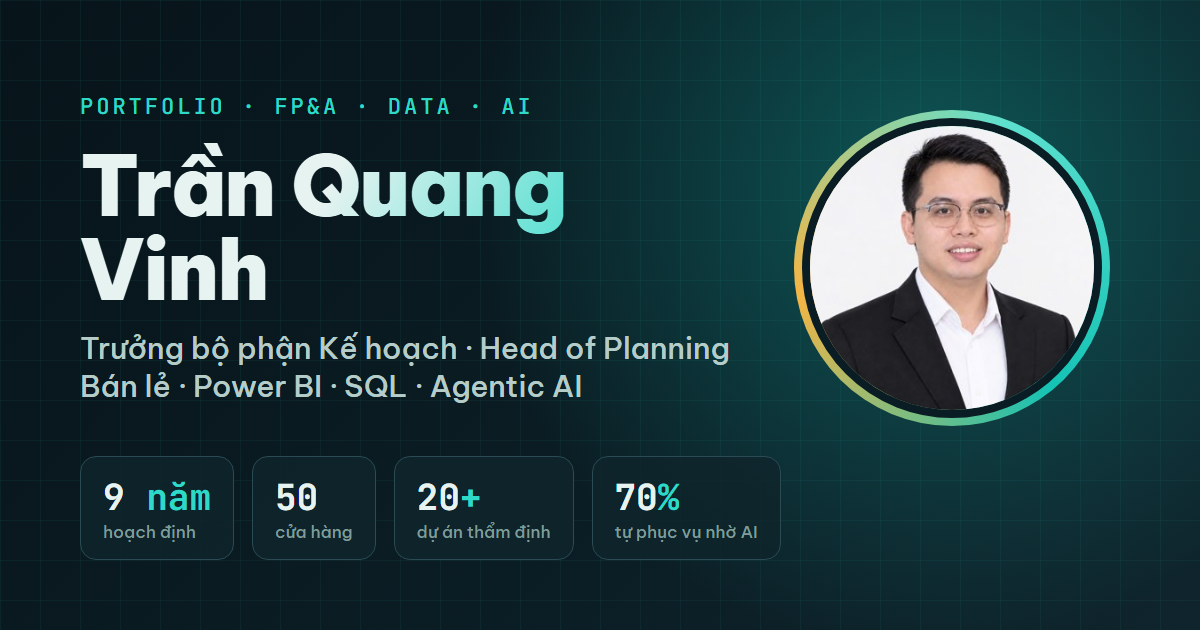
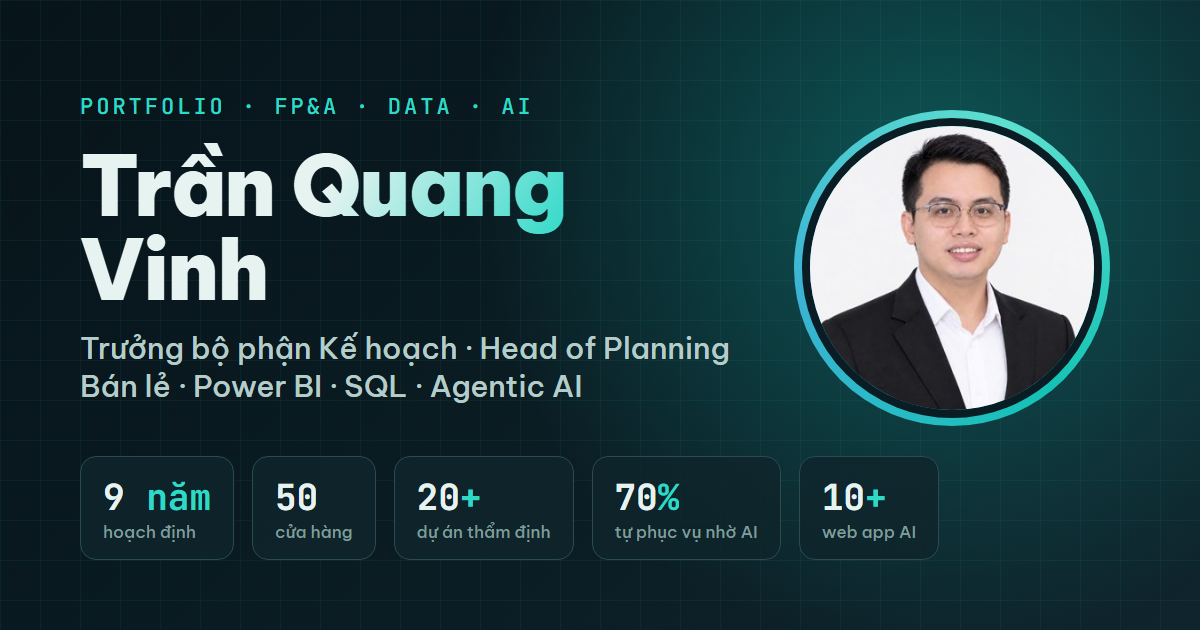
Portfolio đồng bộ CV và ảnh bìa: bỏ màu cam, thêm thẻ 10+ AI web apps, ảnh chia sẻ mới

diff --git a/web/css/style.css b/web/css/style.css
@@ -10,7 +10,7 @@
   --ease: cubic-bezier(.2, .7, .2, 1);
 
   --teal: #14C3B5; --teal-2: #0FA3A0; --teal-3: #5EE0CF;
-  --amber: #F5B544; --rose: #F2716B; --violet: #9B8CFF; --sky: #4DB3FF;
+  --amber: #F5B544; --blue: #3BB3D4; --rose: #F2716B; --violet: #9B8CFF; --sky: #4DB3FF;
 }
 :root[data-theme="dark"] {
   --bg: #07141A; --bg-2: #0B1D24; --surface: #0F242C; --surface-2: #143039;
@@ -22,7 +22,7 @@
 :root[data-theme="light"] {
   --bg: #F6FAF9; --bg-2: #ECF5F3; --surface: #FFFFFF; --surface-2: #F1F7F6;
   --fg: #0D2724; --fg-2: #2E4E4A; --muted: #5C7874; --line: #D7E8E5; --line-2: #C3DCD8;
-  --accent: #0B8C89; --accent-ink: #FFFFFF; --glow: rgba(15, 163, 160, .16);
+  --accent: #0B8C89; --accent-ink: #FFFFFF; --blue: #1C86A0; --glow: rgba(15, 163, 160, .16);
   --shadow: 0 20px 50px rgba(13, 60, 56, .12); --shadow-sm: 0 6px 18px rgba(13, 60, 56, .08);
   color-scheme: light;
 }
@@ -46,7 +46,7 @@ svg { width: 1em; height: 1em; fill: none; stroke: currentColor; stroke-width: 2
 
 /* Progress */
 .progress { position: fixed; inset: 0 0 auto 0; height: 3px; z-index: 60; pointer-events: none; }
-.progress span { display: block; height: 100%; width: 100%; transform-origin: 0 50%; transform: scaleX(0); background: linear-gradient(90deg, var(--teal), var(--amber)); }
+.progress span { display: block; height: 100%; width: 100%; transform-origin: 0 50%; transform: scaleX(0); background: linear-gradient(90deg, var(--teal), var(--blue)); }
 
 /* Buttons */
 .btn {
@@ -99,7 +99,7 @@ kbd { font-family: var(--mono); font-size: 11px; padding: 2px 6px; border-radius
 .dot-live { width: 9px; height: 9px; border-radius: 50%; background: #3BE08A; box-shadow: 0 0 0 0 rgba(59, 224, 138, .6); animation: pulse 2s infinite; }
 @keyframes pulse { 70% { box-shadow: 0 0 0 10px rgba(59, 224, 138, 0); } 100% { box-shadow: 0 0 0 0 rgba(59, 224, 138, 0); } }
 .hero-name { font-size: clamp(42px, 7.4vw, 92px); line-height: 1.02; font-weight: 900; letter-spacing: -1.5px; margin: 0;
-  background: linear-gradient(120deg, var(--fg) 30%, var(--accent) 75%, var(--amber)); -webkit-background-clip: text; background-clip: text; color: transparent; text-wrap: balance; }
+  background: linear-gradient(120deg, var(--fg) 30%, var(--accent) 75%, var(--blue)); -webkit-background-clip: text; background-clip: text; color: transparent; text-wrap: balance; }
 .hero-title { font-size: clamp(18px, 2.2vw, 24px); font-weight: 600; margin: 18px 0 0; color: var(--fg); display: flex; flex-wrap: wrap; gap: 6px 10px; align-items: baseline; }
 .hero-title .sep { color: var(--muted); }
 .rotator { color: var(--accent); font-family: var(--mono); font-weight: 500; font-size: .9em; border-right: 2px solid var(--accent); padding-right: 4px; animation: caret 1s steps(1) infinite; min-height: 1.4em; }
@@ -110,7 +110,7 @@ kbd { font-family: var(--mono); font-size: 11px; padding: 2px 6px; border-radius
 .hero-meta li, .hero-meta a { display: inline-flex; align-items: center; gap: 7px; text-decoration: none; }
 .hero-meta a:hover { color: var(--accent); }
 .hero-card { position: relative; justify-self: center; width: min(380px, 100%); aspect-ratio: 1; }
-.avatar-ring { position: absolute; inset: 8%; border-radius: 50%; padding: 6px; background: conic-gradient(from 140deg, var(--teal), var(--amber), var(--teal-3), var(--teal)); animation: spin 14s linear infinite; box-shadow: 0 30px 80px var(--glow); }
+.avatar-ring { position: absolute; inset: 8%; border-radius: 50%; padding: 6px; background: conic-gradient(from 140deg, var(--teal), var(--blue), var(--teal-3), var(--teal)); animation: spin 14s linear infinite; box-shadow: 0 30px 80px var(--glow); }
 .avatar-ring img { width: 100%; height: 100%; object-fit: cover; border-radius: 50%; border: 6px solid var(--bg); animation: spin 14s linear infinite reverse; }
 @keyframes spin { to { transform: rotate(360deg); } }
 .badge-float { position: absolute; padding: 10px 14px; border-radius: 14px; background: color-mix(in srgb, var(--surface) 88%, transparent); border: 1px solid var(--line-2);
@@ -125,9 +125,9 @@ kbd { font-family: var(--mono); font-size: 11px; padding: 2px 6px; border-radius
 
 /* KPI */
 .kpis { position: relative; margin-top: -40px; z-index: 2; }
-.kpi-grid { display: grid; grid-template-columns: repeat(4, minmax(0, 1fr)); gap: 16px; }
+.kpi-grid { display: grid; grid-template-columns: repeat(5, minmax(0, 1fr)); gap: 14px; }
 .kpi { position: relative; display: block; text-decoration: none; padding: 22px 22px 20px; border-radius: var(--r); background: var(--surface); border: 1px solid var(--line); box-shadow: var(--shadow-sm); overflow: hidden; transition: transform .25s var(--ease), border-color .25s; }
-.kpi::before { content: ""; position: absolute; inset: 0 0 auto 0; height: 3px; background: linear-gradient(90deg, var(--teal), var(--amber)); transform: scaleX(.25); transform-origin: 0 50%; transition: transform .4s var(--ease); }
+.kpi::before { content: ""; position: absolute; inset: 0 0 auto 0; height: 3px; background: linear-gradient(90deg, var(--teal), var(--blue)); transform: scaleX(.25); transform-origin: 0 50%; transition: transform .4s var(--ease); }
 .kpi:hover { transform: translateY(-4px); border-color: var(--line-2); }
 .kpi:hover::before { transform: scaleX(1); }
 .kpi-v { font-family: var(--mono); font-size: clamp(34px, 4vw, 48px); font-weight: 700; line-height: 1; color: var(--fg); letter-spacing: -1px; }
@@ -150,7 +150,7 @@ kbd { font-family: var(--mono); font-size: 11px; padding: 2px 6px; border-radius
 .about-grid { display: grid; grid-template-columns: 1.3fr 1fr; gap: 48px; }
 .lead { font-size: 20px; line-height: 1.6; color: var(--fg); margin-top: 0; font-weight: 500; }
 .about-text p { color: var(--fg-2); }
-.quote { margin: 26px 0 0; padding: 18px 22px; border-left: 3px solid var(--amber); background: var(--surface); border-radius: 0 var(--r-sm) var(--r-sm) 0; font-style: italic; color: var(--fg); }
+.quote { margin: 26px 0 0; padding: 18px 22px; border-left: 3px solid var(--accent); background: var(--surface); border-radius: 0 var(--r-sm) var(--r-sm) 0; font-style: italic; color: var(--fg); }
 .how { list-style: none; padding: 0; margin: 0; display: grid; gap: 14px; counter-reset: how; }
 .how li { counter-increment: how; display: grid; grid-template-columns: 44px 1fr; gap: 14px; padding: 16px; border-radius: var(--r); background: var(--surface); border: 1px solid var(--line); }
 .how li::before { content: "0" counter(how); font-family: var(--mono); font-weight: 700; color: var(--accent); font-size: 20px; }
@@ -461,12 +461,12 @@ pre.code .k { color: #FFB86B; } pre.code .f { color: #5EE0CF; } pre.code .s { co
 .q-close { margin-left: auto; align-self: flex-start; }
 .q-body { padding: 24px 28px 28px; display: grid; gap: 22px; }
 .q-timer { height: 4px; border-radius: 99px; background: var(--line); overflow: hidden; }
-.q-timer i { display: block; height: 100%; width: 100%; background: linear-gradient(90deg, var(--teal), var(--amber)); transform-origin: 0 50%; animation: timer 30s linear forwards; }
+.q-timer i { display: block; height: 100%; width: 100%; background: linear-gradient(90deg, var(--teal), var(--blue)); transform-origin: 0 50%; animation: timer 30s linear forwards; }
 @keyframes timer { from { transform: scaleX(0); } to { transform: scaleX(1); } }
 .q-cols { display: grid; grid-template-columns: 1fr 1fr; gap: 22px; }
 .q-body h3 { margin: 0 0 10px; font-size: 13px; letter-spacing: 1.4px; text-transform: uppercase; color: var(--accent); }
 .q-body ul { margin: 0; padding-left: 18px; display: grid; gap: 6px; color: var(--fg-2); font-size: 15px; }
-.q-kpis { display: grid; grid-template-columns: repeat(4, 1fr); gap: 10px; }
+.q-kpis { display: grid; grid-template-columns: repeat(auto-fit, minmax(120px, 1fr)); gap: 10px; }
 .q-kpis div { padding: 12px; border-radius: 12px; background: var(--surface); border: 1px solid var(--line); text-align: center; }
 .q-kpis b { display: block; font-family: var(--mono); font-size: 24px; color: var(--accent); }
 .q-kpis small { font-size: 12px; color: var(--muted); line-height: 1.3; display: block; }
@@ -495,6 +495,7 @@ pre.code .k { color: #FFB86B; } pre.code .f { color: #5EE0CF; } pre.code .s { co
   .proj-grid { grid-template-columns: repeat(2, minmax(0, 1fr)); }
   .focus-grid { grid-template-columns: repeat(2, minmax(0, 1fr)); }
   .kbd-btn kbd { display: none; }
+  .kpi-grid { grid-template-columns: repeat(3, minmax(0, 1fr)); }
 }
 @media (max-width: 900px) {
   .menu-btn { display: inline-flex; }
@@ -507,6 +508,7 @@ pre.code .k { color: #FFB86B; } pre.code .f { color: #5EE0CF; } pre.code .s { co
   .badge-float { display: none; }
   .about-grid, .skills-grid, .contact-grid, .demo-grid, .agent, .arch { grid-template-columns: 1fr; }
   .kpi-grid { grid-template-columns: repeat(2, minmax(0, 1fr)); }
+  .kpi-grid .kpi:nth-child(5) { grid-column: 1 / -1; }
   .skills-extra { grid-template-columns: 1fr; }
   .phase-bar { flex-direction: column; }
   .section { padding: 80px 0; }

diff --git a/tools/og.html b/tools/og.html
@@ -9,18 +9,18 @@
   .grid { position: absolute; inset: 0; background-image: linear-gradient(rgba(47,217,200,.06) 1px, transparent 1px), linear-gradient(90deg, rgba(47,217,200,.06) 1px, transparent 1px); background-size: 40px 40px; }
   .txt { position: absolute; left: 80px; top: 92px; width: 680px; }
   .k { font-family: "JetBrains Mono", monospace; color: #2FD9C8; font-size: 22px; letter-spacing: 3px; }
-  h1 { font-size: 84px; line-height: 1; margin: 22px 0 18px; font-weight: 900; letter-spacing: -2px; background: linear-gradient(120deg, #E7F3F1 35%, #2FD9C8 80%, #F5B544); -webkit-background-clip: text; color: transparent; }
+  h1 { font-size: 84px; line-height: 1; margin: 22px 0 18px; font-weight: 900; letter-spacing: -2px; background: linear-gradient(120deg, #E7F3F1 35%, #2FD9C8 70%, #3BB3D4); -webkit-background-clip: text; color: transparent; }
   p { font-size: 30px; margin: 0; color: #B5CCC9; font-weight: 500; }
   .kpi { position: absolute; left: 80px; bottom: 70px; display: flex; gap: 18px; }
   .kpi div { padding: 16px 22px; border-radius: 16px; background: rgba(15,36,44,.85); border: 1px solid #2A4B54; }
   .kpi b { display: block; font-family: "JetBrains Mono", monospace; font-size: 36px; color: #E7F3F1; }
   .kpi b em { color: #2FD9C8; font-style: normal; }
   .kpi small { font-size: 17px; color: #7F9C99; }
-  .ava { position: absolute; right: 90px; top: 110px; width: 300px; height: 300px; border-radius: 50%; padding: 8px; background: conic-gradient(from 140deg, #14C3B5, #F5B544, #5EE0CF, #14C3B5); }
+  .ava { position: absolute; right: 90px; top: 110px; width: 300px; height: 300px; border-radius: 50%; padding: 8px; background: conic-gradient(from 140deg, #14C3B5, #3BB3D4, #5EE0CF, #14C3B5); }
   .ava img { width: 100%; height: 100%; border-radius: 50%; object-fit: cover; border: 8px solid #0B1D24; box-sizing: border-box; }
 </style></head>
 <body><div class="grid"></div>
 <div class="txt"><div class="k">PORTFOLIO · FP&amp;A · DATA · AI</div><h1>Trần Quang Vinh</h1><p>Trưởng bộ phận Kế hoạch · Head of Planning<br>Bán lẻ · Power BI · SQL · Agentic AI</p></div>
 <div class="ava"><img src="../web/assets/avatar.jpg" alt=""></div>
-<div class="kpi"><div><b>9 <em>năm</em></b><small>hoạch định</small></div><div><b>50</b><small>cửa hàng</small></div><div><b>20<em>+</em></b><small>dự án thẩm định</small></div><div><b>70<em>%</em></b><small>tự phục vụ nhờ AI</small></div></div>
+<div class="kpi"><div><b>9 <em>năm</em></b><small>hoạch định</small></div><div><b>50</b><small>cửa hàng</small></div><div><b>20<em>+</em></b><small>dự án thẩm định</small></div><div><b>70<em>%</em></b><small>tự phục vụ nhờ AI</small></div><div><b>10<em>+</em></b><small>web app AI</small></div></div>
 </body></html>

diff --git a/web/js/app.js b/web/js/app.js
@@ -47,7 +47,7 @@
     actTheme: ['Đổi giao diện sáng/tối', 'Toggle light/dark'], actLang: ['Switch to English', 'Chuyển sang tiếng Việt'], actCv: ['Tải CV (PDF)', 'Download CV (PDF)'], actMail: ['Chép email', 'Copy email'], actQuick: ['Xem nhanh 30 giây', '30-second summary'],
     qWhy: ['Vì sao nên trò chuyện với tôi', 'Why talk to me'], qWins: ['Kết quả nổi bật', 'Highlights'],
     qWhyList: [['Gần 9 năm hoạch định, 6 năm trong bán lẻ chuỗi ~50 cửa hàng', 'Kết hợp hiếm: Kế toán trưởng + FP&A + SQL/Power BI + Agentic AI', 'Tự xây sản phẩm dữ liệu và web app, không chỉ dùng', 'Mọi phân tích kết thúc bằng đề xuất và con số làm cơ sở'], ['Nearly 9 years in planning, 6 in a ~50-store retail chain', 'A rare mix: Chief Accountant + FP&A + SQL/Power BI + Agentic AI', 'Builds data products and web apps, not just uses them', 'Every analysis ends with a recommendation and the numbers behind it']],
-    qWinList: [['~70% yêu cầu dữ liệu tự phục vụ nhờ AI, tiết kiệm ~40 giờ/tháng', 'Xây lại chỉ tiêu toàn bộ ngành hàng trong 5 ngày sau tái cấu trúc', 'Hợp tác F&B cao hơn giá thuê hiện tại từ 50%', 'Hơn 20 dự án mở mới, di dời được thẩm định', 'Excel thủ công → SQL Server + Power BI với 20+ báo cáo'], ['~70% of data requests self served via AI, ~40 hours saved a month', 'Rebuilt all category targets in 5 days after restructuring', 'F&B partnerships priced 50%+ above current rent', '20+ new store and relocation projects appraised', 'Manual Excel → SQL Server + Power BI with 20+ reports']],
+    qWinList: [['~70% yêu cầu dữ liệu tự phục vụ nhờ AI, tiết kiệm ~40 giờ/tháng', 'Xây lại chỉ tiêu toàn bộ ngành hàng trong 5 ngày sau tái cấu trúc', 'Hợp tác F&B cao hơn giá thuê hiện tại từ 50%', 'Hơn 20 dự án mở mới, di dời được thẩm định', 'Excel thủ công → SQL Server + Power BI với 20+ báo cáo', 'Hơn 10 web app & công cụ AI nội bộ, 15+ module'], ['~70% of data requests self served via AI, ~40 hours saved a month', 'Rebuilt all category targets in 5 days after restructuring', 'F&B partnerships priced 50%+ above current rent', '20+ new store and relocation projects appraised', 'Manual Excel → SQL Server + Power BI with 20+ reports', '10+ AI-powered internal web apps & tools, 15+ modules']],
   };
   function m(k) { var v = MSG[k]; return Array.isArray(v[0]) ? v[PF.lang === 'en' ? 1 : 0] : v[PF.lang === 'en' ? 1 : 0]; }
 

diff --git a/web/js/data.js b/web/js/data.js
@@ -29,6 +29,7 @@ PF.kpis = [
   { value: 50, suffix: '', label: { vi: 'cửa hàng trong phạm vi kế hoạch', en: 'stores in planning scope' }, note: { vi: 'chuỗi nhà sách và bán lẻ toàn quốc', en: 'nationwide bookstore & lifestyle chain' }, link: '#du-an/daily-plan' },
   { value: 20, suffix: '+', label: { vi: 'dự án đầu tư đã thẩm định', en: 'investment projects appraised' }, note: { vi: 'mở mới, di dời, cải tạo, bookcafe, kho', en: 'new stores, relocations, refits, bookcafes, warehouses' }, link: '#du-an/feasibility' },
   { value: 70, suffix: '%', label: { vi: 'yêu cầu dữ liệu chuyển sang tự phục vụ', en: 'data requests now self service' }, note: { vi: 'nhờ Agentic AI, tiết kiệm ~40 giờ/tháng', en: 'via Agentic AI, ~40 hours saved a month' }, link: '#du-an/agentic-ai' },
+  { value: 10, suffix: '+', label: { vi: 'web app & công cụ AI nội bộ', en: 'AI-powered web apps & tools' }, note: { vi: '15+ module, trợ lý AI, dùng chung một hệ tài khoản', en: '15+ modules, AI assistant, one shared login' }, link: '#du-an/webapp' },
 ];
 
 PF.about = {
@@ -234,9 +235,9 @@ PF.projects = [
   {
     id: 'webapp', cat: ['app', 'data'], year: '2026', icon: 'app', hue: 200, featured: true,
     title: { vi: 'Hệ sinh thái web app phòng Kế hoạch', en: 'Planning web app ecosystem' },
-    tagline: { vi: '3 web app dùng chung một hệ tài khoản: quản lý việc, báo cáo ngày, báo cáo tuần, tra cứu dữ liệu và trợ lý AI, xây bằng phát triển có AI hỗ trợ.', en: 'Three web apps on one account system: task tracking, daily and weekly reports, data lookup and an AI assistant, built with AI-assisted development.' },
+    tagline: { vi: 'Hệ sinh thái web app nội bộ ứng dụng AI, dùng chung một hệ tài khoản: quản lý việc, báo cáo ngày, báo cáo tuần, tra cứu dữ liệu và trợ lý AI, xây bằng phát triển có AI hỗ trợ.', en: 'An ecosystem of AI-powered internal web apps on one account system: task tracking, daily and weekly reports, data lookup and an AI assistant, built with AI-assisted development.' },
     metrics: [
-      { v: '3', l: { vi: 'web app trên một nền', en: 'apps on one platform' } },
+      { v: '10+', l: { vi: 'web app & công cụ AI', en: 'AI web apps & tools' } },
       { v: '15+', l: { vi: 'module nghiệp vụ', en: 'business modules' } },
       { v: '1', l: { vi: 'hệ tài khoản & phân quyền chung', en: 'shared login & permissions' } },
     ],
